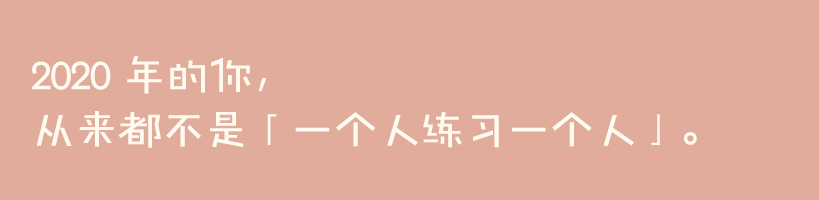
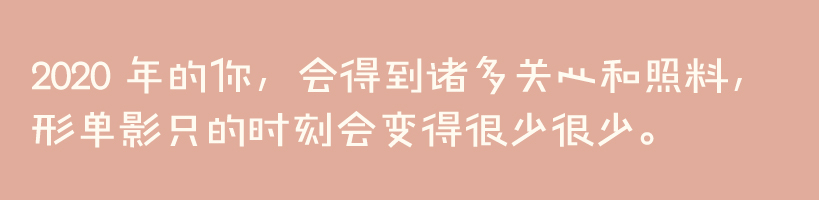
1
1

Changed region(s): [[0.0305, 0.54, 0.8547, 0.75], [0.3663, 0.27, 0.9158, 0.48]]

diff --git a/canvas.js b/canvas.js
@@ -14,39 +14,40 @@ function canvasDrawImg(canl, bg, obj, name, callback) {
     img_bg.onload = function () {
         ctx.drawImage(img_bg, 0, 0, img_bg.width, img_bg.height)
         // 设置字体
-        ctx.font = "36px bold 黑体";
+        ctx.font = "40px bold 黑体";
         // 设置颜色
-        ctx.fillStyle = "#db9e91";
+        ctx.fillStyle = "#ffffff";
         // 设置水平对齐方式
         ctx.textAlign = "left";
         // 设置垂直对齐方式
         ctx.textBaseline = "middle";
         // 绘制文字（参数：要写的字，x坐标，y坐标）
-        ctx.fillText(name, 100, 380);
+        ctx.fillText(name, 120, 415);
         const Qingwidth = 570,
             Qingheight = 120;
         let img_1 = new Image();
         img_1.setAttribute("crossOrigin", 'anonymous')
         img_1.src = obj[0];
         img_1.onload = function () {
-            ctx.drawImage(img_1, 90, 500, Qingwidth, Qingheight)
+            ctx.drawImage(img_1, 90, 490, Qingwidth, Qingheight)
             let img_2 = new Image();
             img_2.setAttribute("crossOrigin", 'anonymous')
             img_2.src = obj[1];
             img_2.onload = function () {
-                ctx.drawImage(img_2, 90, 660, Qingwidth, Qingheight)
+                ctx.drawImage(img_2, 90, 655, Qingwidth, Qingheight)
                 let img_3 = new Image();
                 img_3.setAttribute("crossOrigin", 'anonymous')
                 img_3.src = obj[2];
                 img_3.onload = function () {
                     ctx.drawImage(img_3, 90, 820, Qingwidth, Qingheight)
-                    let img_logo = new Image();
-                    img_logo.setAttribute("crossOrigin", 'anonymous')
-                    img_logo.src = "./img/logo.png";
-                    img_logo.onload = function () {
-                        ctx.drawImage(img_logo, 20, 20, img_logo.width, img_logo.height)
-                        drawImg()
-                    }
+                    drawImg()
+                    // let img_logo = new Image();
+                    // img_logo.setAttribute("crossOrigin", 'anonymous')
+                    // img_logo.src = "./img/logo.png";
+                    // img_logo.onload = function () {
+                    //     ctx.drawImage(img_logo, 20, 20, img_logo.width, img_logo.height)
+                        
+                    // }
                 }
             }
         }
@@ -78,32 +79,32 @@ function canvasDrawImg2(canl, bg, obj, name, callback) {
     img_bg.onload = function () {
         ctx.drawImage(img_bg, 2, topY, img_bg.width, img_bg.height)
         // 设置字体
-        ctx.font = "36px bold 黑体";
+        ctx.font = "40px bold 黑体";
         // 设置颜色
-        ctx.fillStyle = "#db9e91";
+        ctx.fillStyle = "#ffffff";
         // 设置水平对齐方式
         ctx.textAlign = "left";
         // 设置垂直对齐方式
         ctx.textBaseline = "middle";
         // 绘制文字（参数：要写的字，x坐标，y坐标）
-        ctx.fillText(name, 10, 72);
+        ctx.fillText(name, 30, 138);
         const Qingwidth = 605,
             Qingheight = 130;
         let img_1 = new Image();
         img_1.setAttribute("crossOrigin", 'anonymous')
         img_1.src = obj[0];
         img_1.onload = function () {
-            ctx.drawImage(img_1, 2, 100 + topY, Qingwidth, Qingheight)
+            ctx.drawImage(img_1, 2, 102 + topY, Qingwidth, Qingheight)
             let img_2 = new Image();
             img_2.setAttribute("crossOrigin", 'anonymous')
             img_2.src = obj[1];
             img_2.onload = function () {
-                ctx.drawImage(img_2, 2, 260 + topY, Qingwidth, Qingheight)
+                ctx.drawImage(img_2, 2, 276 + topY, Qingwidth, Qingheight)
                 let img_3 = new Image();
                 img_3.setAttribute("crossOrigin", 'anonymous')
                 img_3.src = obj[2];
                 img_3.onload = function () {
-                    ctx.drawImage(img_3, 0, 420 + topY, Qingwidth, Qingheight)
+                    ctx.drawImage(img_3, 2, 450 + topY, Qingwidth, Qingheight)
                     drawImg()
                 }
             }

diff --git a/index.html b/index.html
@@ -252,6 +252,9 @@
             </div>
         </div>
         <div class="page box10">
+            <div class="logo">
+                <img src="./img/logo_1.png" alt="">
+            </div>
             <div class="audio_img" onclick="playPauseAuto(this)"><img src="./img/kai.png" alt=""></div>
 
             <div class="content_10">
